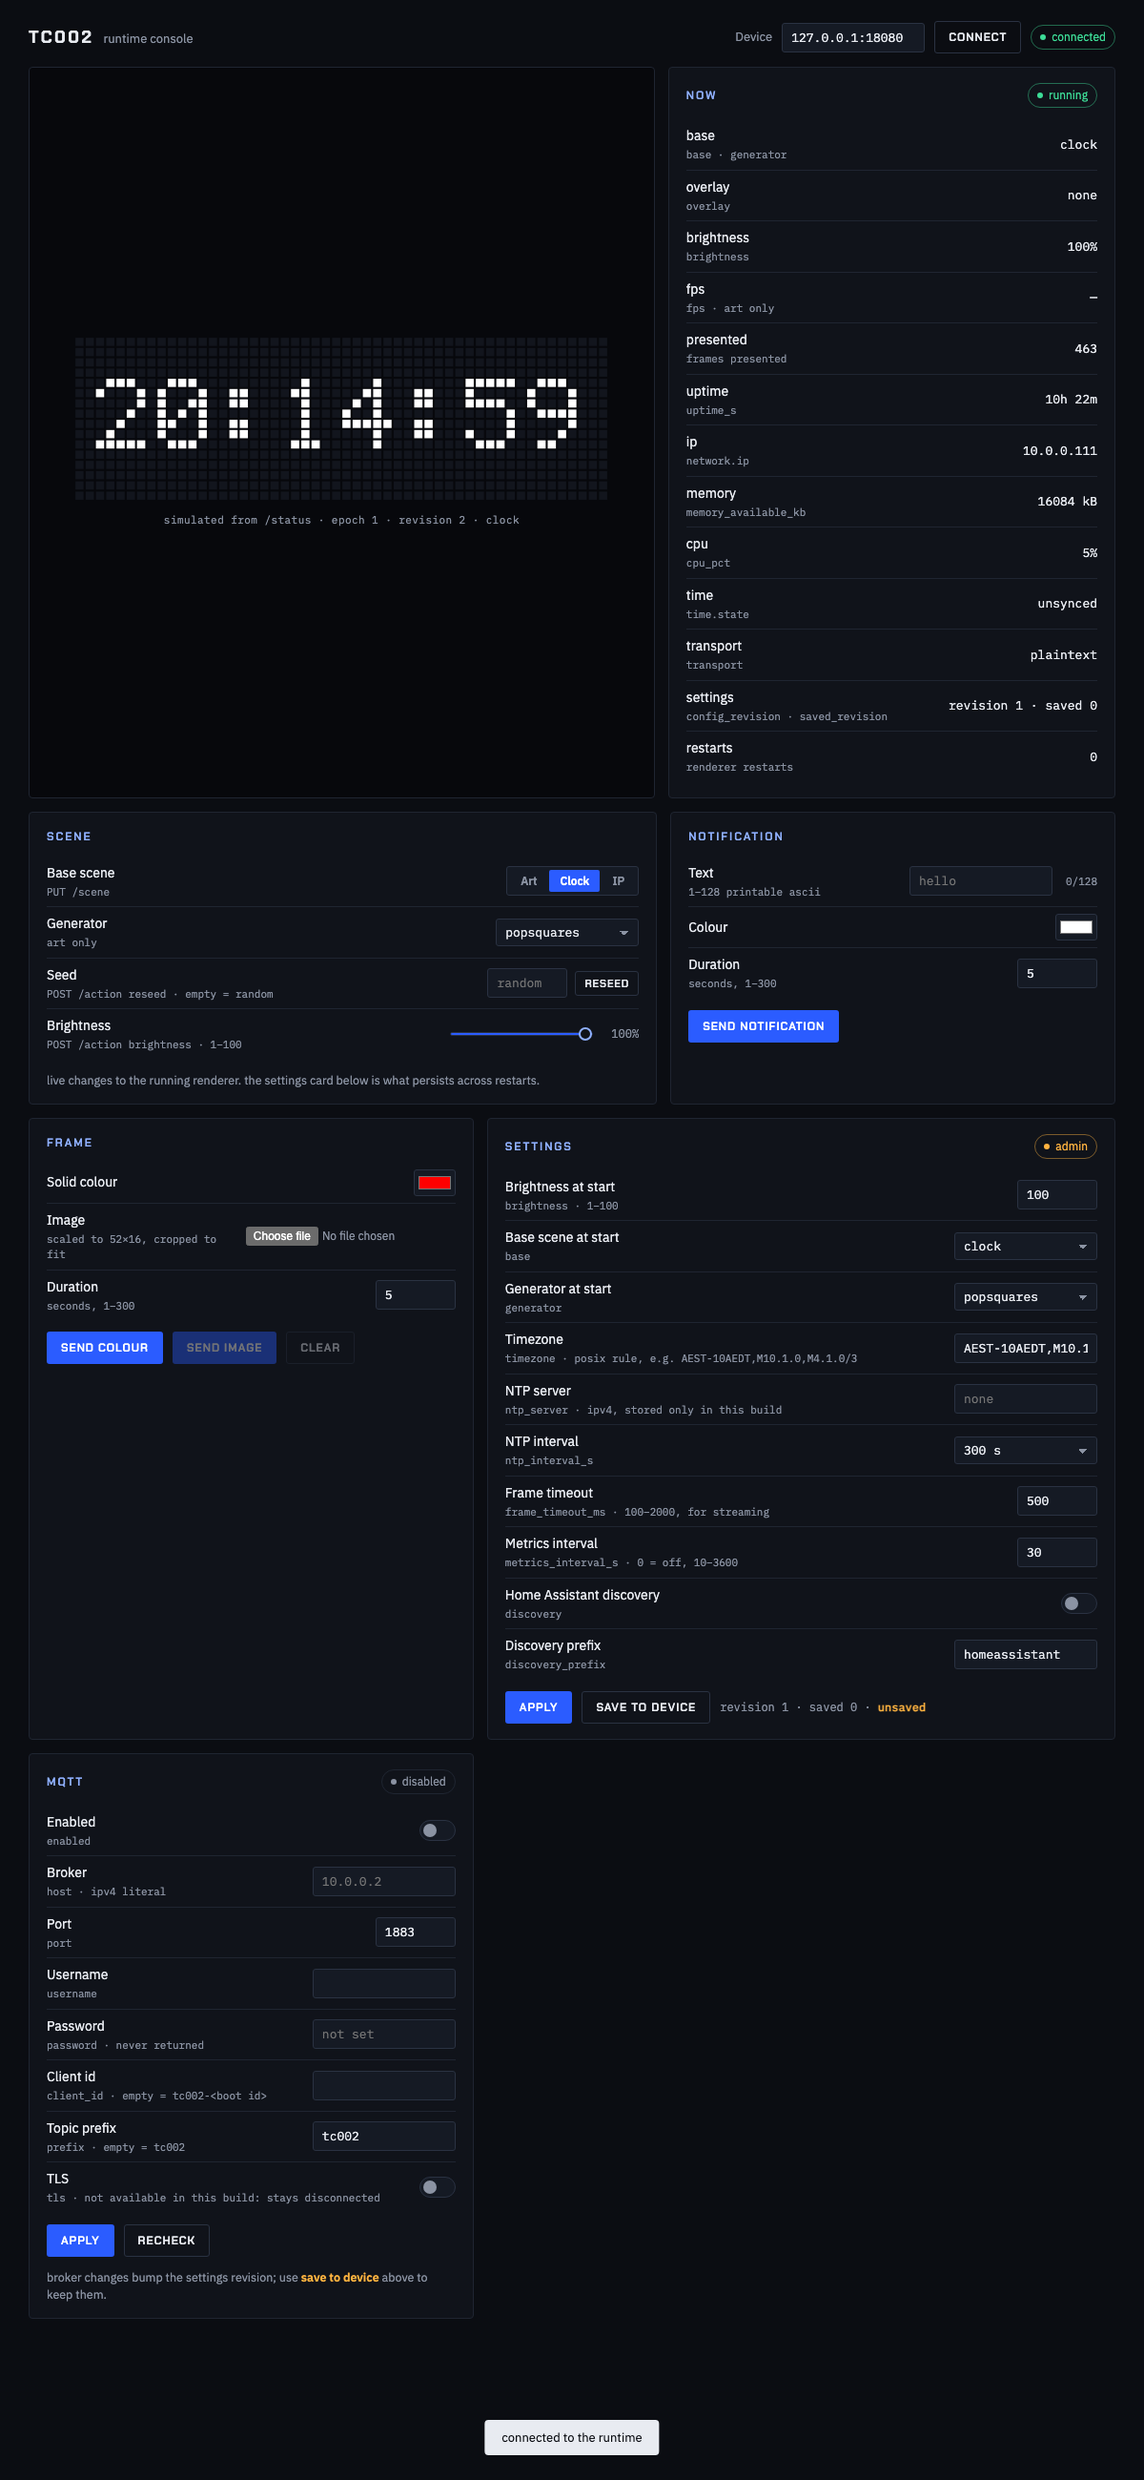
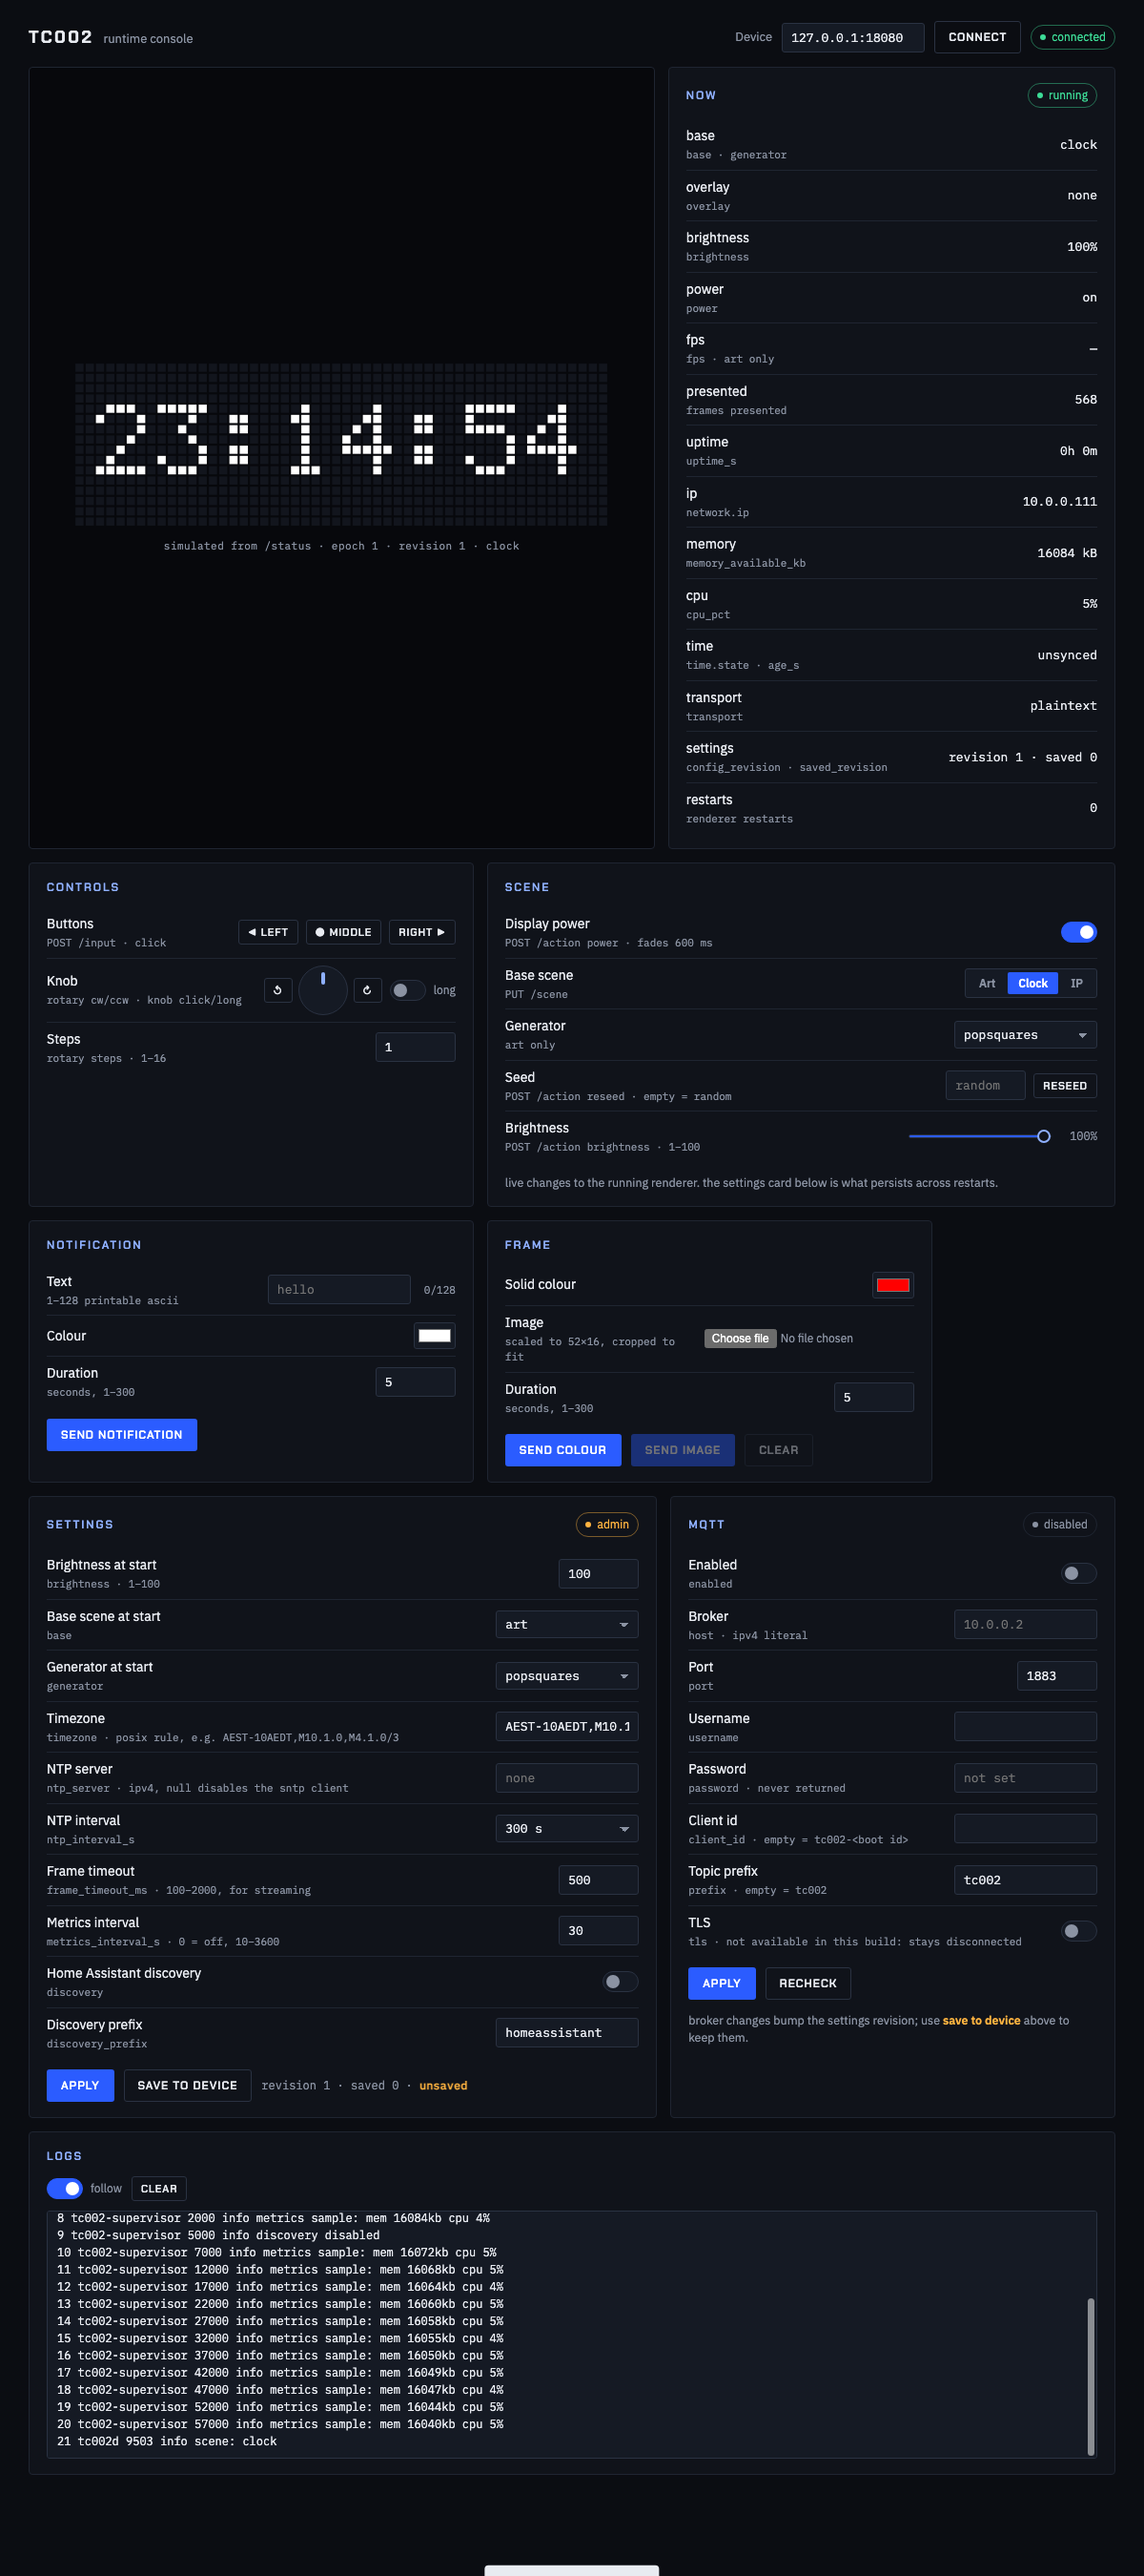
panel-v2: docs and screenshots for the live preview and controls
README and RUNTIME.md now describe the live /screen preview (with its
simulated fallback), the remote controls, display power and the log ring;
screenshots retaken against the mock in the clock scene with the sydney tz
rule applied, with the new controls and logs cards visible (1200x2700 wide,
390x5328 narrow via a cdp capture — --window-size is still unreliable for
narrow widths on this chrome build).

Claude-Session: https://claude.ai/code/session_0154EZ6adqhZyrJZmuD4WZcY

diff --git a/README.md b/README.md
@@ -105,14 +105,20 @@ runtime does not broadcast on udp/55555. `serve.py` serves the page and
 proxies `/api/<device-ip>/v1/<endpoint>` to the device's `/api/v1/<endpoint>`,
 adding the bearer token the route needs, so the browser never holds a token
 and only talks to its own origin. `--adb-pull` takes `--serial <adb-serial>`
-to pick the device when several are attached. the preview is simulated from the
-runtime's status (its own font, layout and generators ported to javascript),
-so the clock and ip are exact, notifications and frames are exact only when
-this page sent them (otherwise they are shown as unknown), and the art shows
-the same algorithm with a local seed. `mock-device.py` is a stand-in for
-developing without a device.
+to pick the device when several are attached. the preview is the live frame
+from `/screen` when the runtime offers that route (exact, as shown after
+fades, before brightness); against `mock-device.py` and older builds without
+it, the page falls back to a simulation of the runtime's status (its own
+font, layout and generators ported to javascript), so the clock and ip are
+exact, notifications and frames are exact only when this page sent them
+(otherwise they are shown as unknown), and the art shows the same algorithm
+with a local seed. the controls card drives the physical buttons, knob and
+rotary remotely through `/input`; the scene card's power switch fades the
+display through `/action`; and the logs card follows the runtime's log ring
+through `/logs`. `mock-device.py` is a stand-in for developing without a
+device.
 
-![the panel-v2 console: a simulated clock preview above cards for status, scene, notifications, frames, settings and mqtt](panel-v2/screenshots/console.png)
+![the panel-v2 console: a simulated clock preview above cards for status, remote controls, scene, notifications, frames, settings, mqtt and the log ring](panel-v2/screenshots/console.png)
 
 <img src="panel-v2/screenshots/console-narrow.png" width="330" alt="the panel-v2 console at phone width, stacked into a single column">
 

diff --git a/RUNTIME.md b/RUNTIME.md
@@ -554,7 +554,8 @@ tools/tc002-run.sh stop
 
 the english web control panel in [`panel/`](panel/) talks to the **stock**
 api; [`panel-v2/`](panel-v2/) is the same idea for this api, with a local
-proxy that holds the tokens and a simulated preview.
+proxy that holds the tokens and a live preview from `/screen` (simulated
+against the mock).
 
 ## memory audits
 
